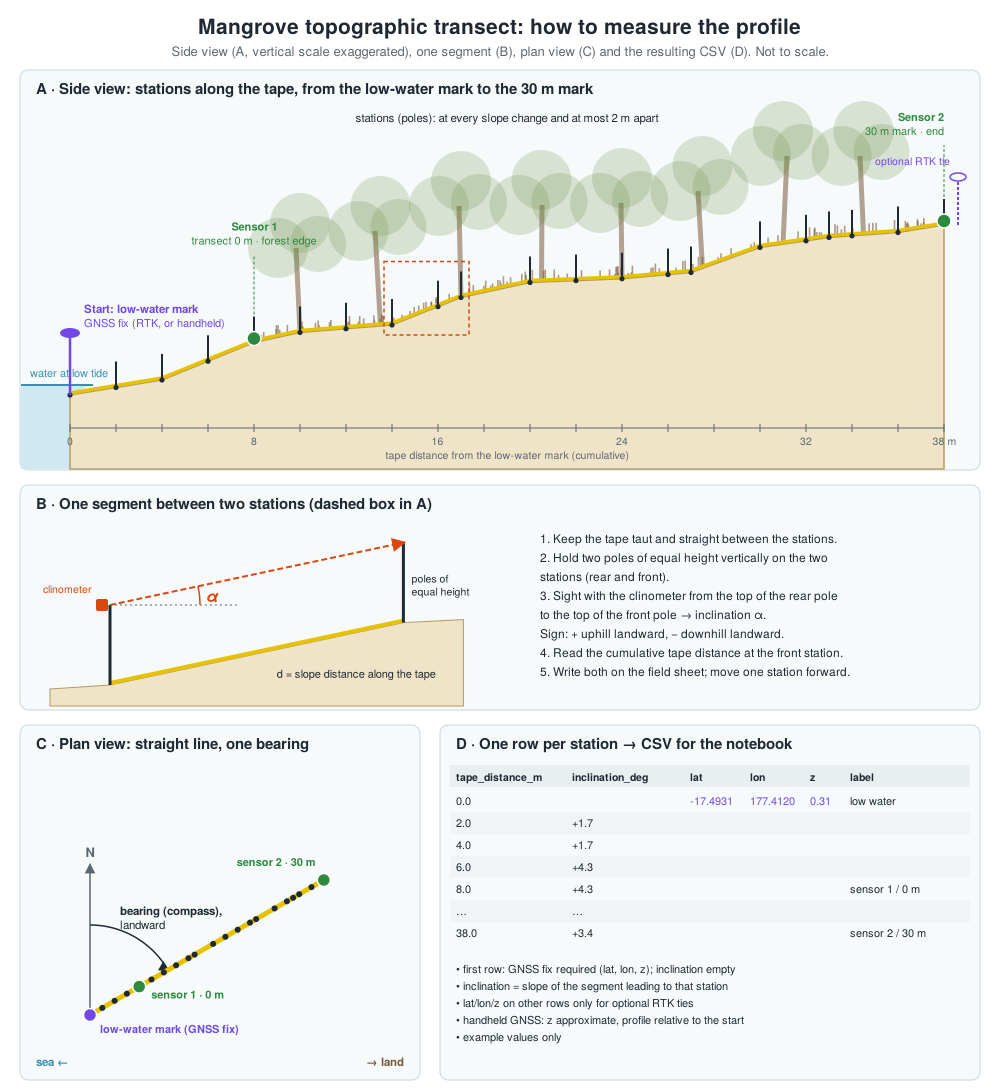
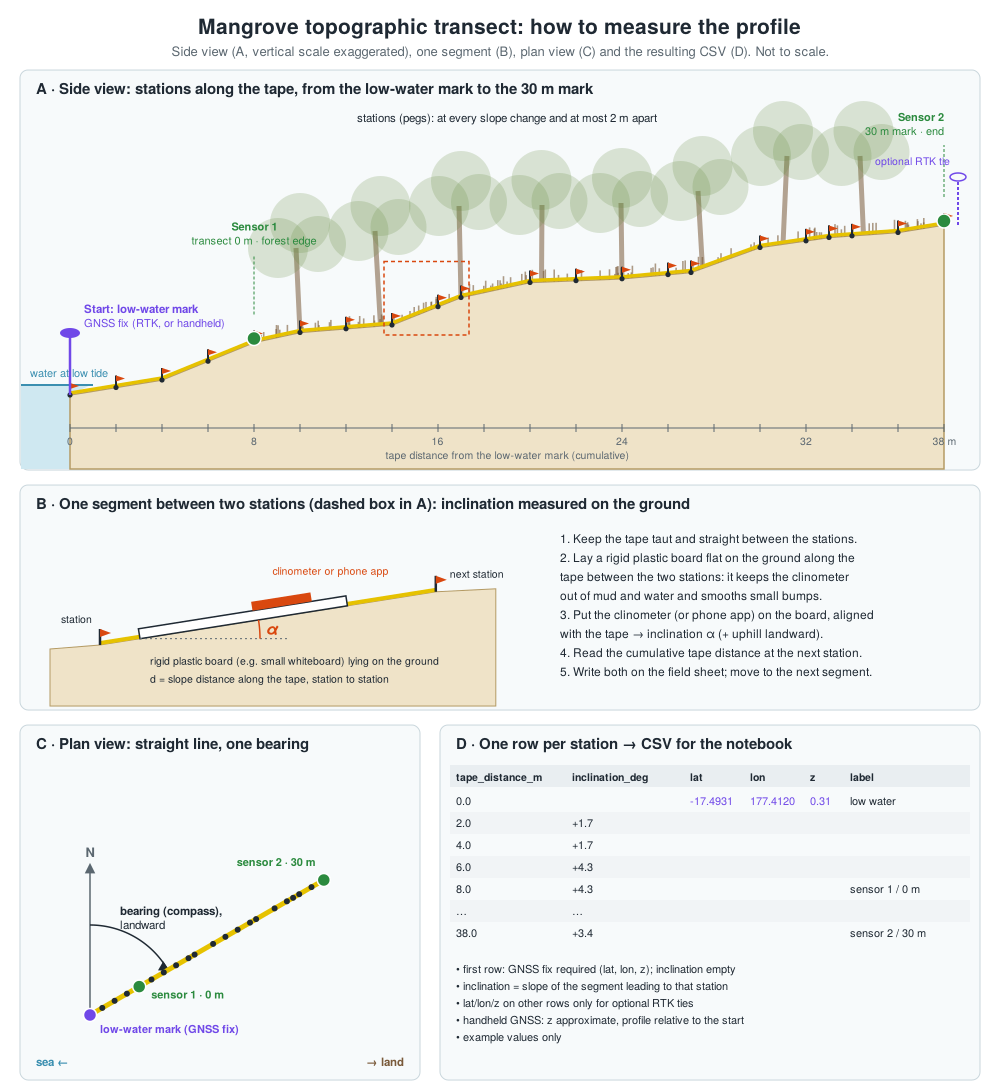
updaete mangrove

diff --git a/docs/mangroves.md b/docs/mangroves.md
@@ -25,9 +25,9 @@ Topography is measured for **every** transect, whatever method is used for the s
 
 ```{figure} _static/mangrove_topography_transect.svg
 :width: 100%
-:alt: Schematic of the topographic transect: side view with stations, one segment measured with two poles and a clinometer, plan view with bearing, and the resulting CSV
+:alt: Schematic of the topographic transect: side view with stations, one segment measured on the ground with a clinometer on a plastic board, plan view with bearing, and the resulting CSV
 
-How to measure the topographic profile. (A) Stations along the tape from the low-water mark to the 30 m mark, with the GNSS fix at the start. (B) One segment: inclination measured with a clinometer between two poles of equal height, and slope distance read on the tape. (C) The profile is a straight line with one compass bearing. (D) One CSV row per station, in the format read by the processing notebook.
+How to measure the topographic profile. (A) Stations along the tape from the low-water mark to the 30 m mark, with the GNSS fix at the start. (B) One segment: inclination measured on the ground with a clinometer placed on a plastic board, and slope distance read on the tape. (C) The profile is a straight line with one compass bearing. (D) One CSV row per station, in the format read by the processing notebook.
 ```
 
 - Identify the **low-water mark** on the ground (the water's edge at low tide, or the visible low-water line) and record the time.
@@ -40,7 +40,7 @@ How to measure the topographic profile. (A) Stations along the tape from the low
 2. **Bearing:** take the compass bearing of the profile, pointing landward. The profile is straight and follows the transect.
 3. **Stations:** run the tape from the start point landward to the 30 m mark of the transect tape. Place a station at every change in slope and at most 2 m apart, and always at the transect 0 m mark, sensor 1, sensor 2 and the 30 m mark.
 4. **Distance:** at each station, read the cumulative distance along the taut, straight tape from the start point (slope distance).
-5. **Inclination:** for each segment between two consecutive stations, measure the slope with a clinometer (or phone app), sighting between two poles of equal height held vertically on the two stations. Sign: **+ = uphill landward**, **− = downhill landward**.
+5. **Inclination:** for each segment between two consecutive stations, lay a rigid plastic board (e.g. a small plastic whiteboard) flat on the ground along the tape, put the clinometer (or phone app) on it, aligned with the tape, and read the slope. The board keeps the clinometer out of mud and water and smooths small bumps. Sign: **+ = uphill landward**, **− = downhill landward**.
 6. **Optional ties:** if RTK GNSS is available, also take fixes at other stations (e.g. at the sensors and the 30 m mark); the notebook uses them to correct the profile.
 7. **Labels:** name the key stations (low water, 0 m, sensor 1, sensor 2, 30 m).
 
@@ -138,7 +138,14 @@ Following Mori et al. (2022, their Figure 1):
 
 ### Photos of the root system
 
-1. Place a **plain board** (e.g. white, ~1 m × 2 m, with a scale marked along its edges) behind the root system so the roots stand out against it.
+```{figure} _static/mangrove_root_board.svg
+:width: 100%
+:alt: Example of root-system photos against a plain board: what the photo should look like, the set-up seen from above, and the processing to A(z)
+
+Example set-up for root-system photos (illustrative). (A) The board stands behind the root system, with a scale on its edges and a card with tree ID, plot and direction. (B) Two photos per tree, one cross-shore and one along-shore, each with the board behind the tree and the camera opposite. (C) Processing: the binarised photo is divided into 10 cm height bands and the root pixels in each band give A(z).
+```
+
+1. Place a **plain board** (e.g. white, ~1 m × 2 m, with a scale marked along its edges) behind the root system so the roots stand out against it. Include a card in the frame with tree ID, plot and photo direction.
 2. Photograph **perpendicular to the board**, camera level, far enough to include the whole root system and the scale.
 3. Take photos in **two directions**: along the main axis of the root system and perpendicular to it. Where possible, make one of them the **cross-shore** direction (direction of wave approach).
 4. Note tree ID and direction for each photo.
